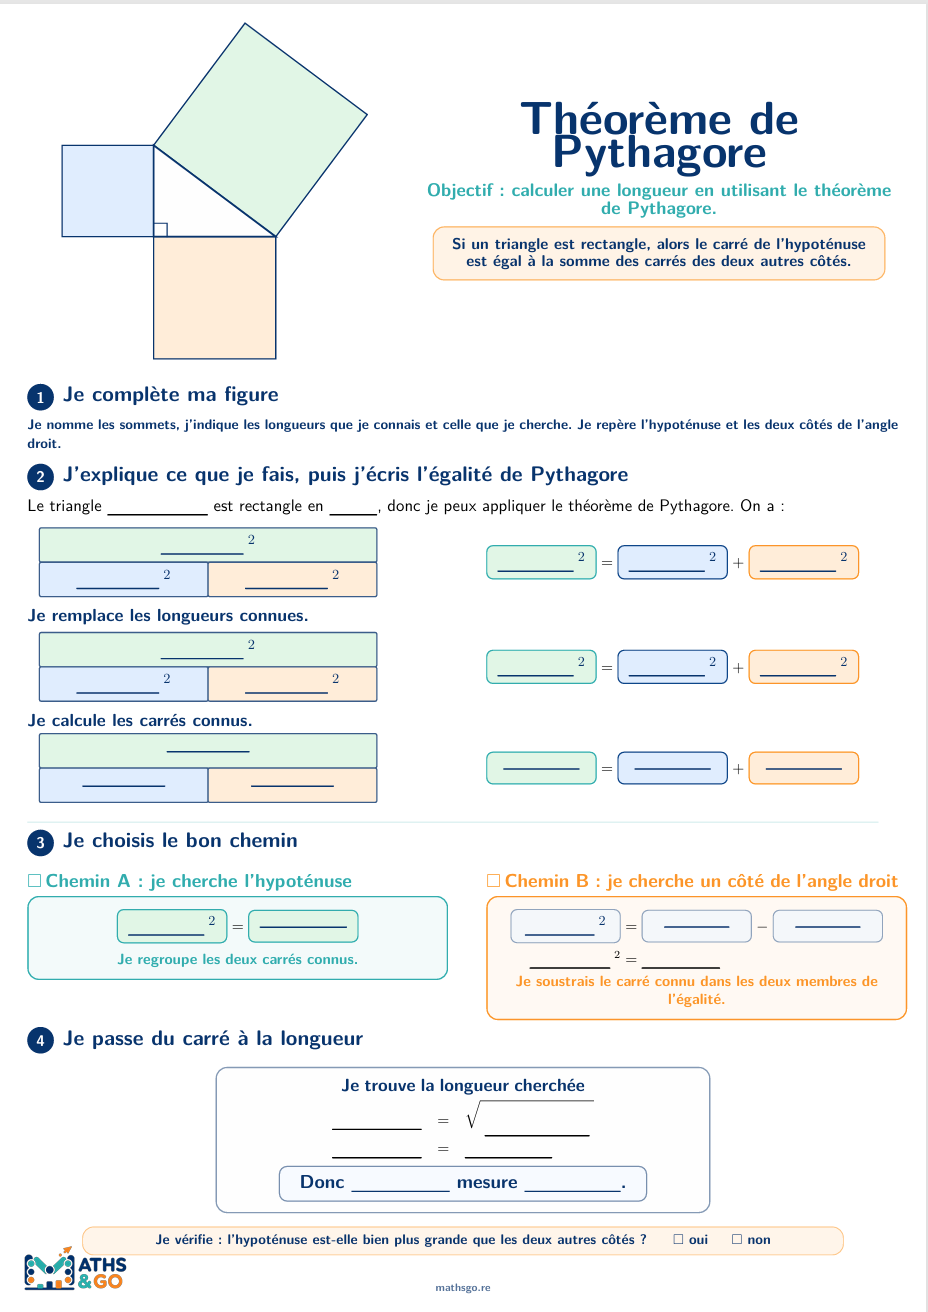
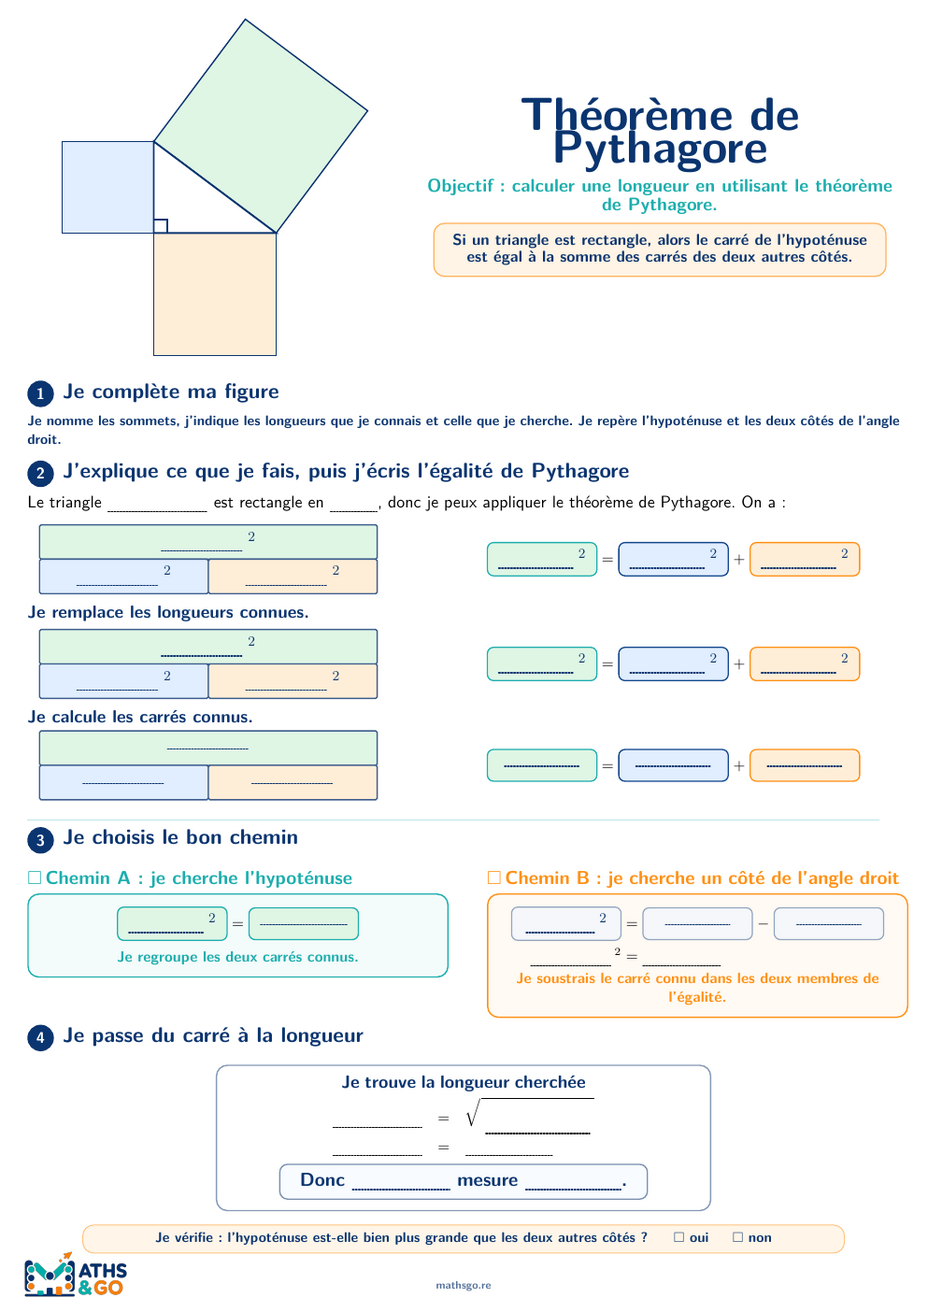
Corrige les gabarits de Pythagore

diff --git a/assets/js/catalogue-refonte-data.js b/assets/js/catalogue-refonte-data.js
@@ -679,14 +679,14 @@ window.MATHSGO_CATALOGUE = {
       "primaryNotion": "pythagore",
       "collections": [],
       "tags": ["schema-barres", "moulin", "pythagore", "gabarit", "imprimable"],
-      "thumbnail": "assets/img/thumbnails/pythagore/gabarit-pythagore.png?v=1",
+      "thumbnail": "assets/img/thumbnails/pythagore/gabarit-pythagore.png?v=2",
       "cardDescription": "Guider pas à pas le calcul d’une longueur avec les carrés colorés, le schéma en barres et une rédaction structurée."
     },
     "outils/gabarit_reciproque_pythagore.pdf": {
       "primaryNotion": "pythagore",
       "collections": [],
       "tags": ["pythagore", "reciproque", "contraposee", "gabarit", "imprimable"],
-      "thumbnail": "assets/img/thumbnails/pythagore/gabarit-reciproque-pythagore.png?v=1",
+      "thumbnail": "assets/img/thumbnails/pythagore/gabarit-reciproque-pythagore.png?v=2",
       "cardDescription": "Comparer séparément le carré du plus grand côté et la somme des deux autres carrés, puis rédiger la conclusion adaptée."
     },
     "outils/fiche_reciproque_thales.pdf": {
@@ -4209,7 +4209,7 @@ window.MATHSGO_CATALOGUE = {
     },
     {
       "id": "outils-gabarit-reciproque-pythagore-pdf",
-      "title": "Gabarit réciproque et contraposé de Pythagore",
+      "title": "Gabarit réciproque et contraposée de Pythagore",
       "description": "Un gabarit à imprimer pour identifier le plus grand côté, effectuer les deux calculs séparément, les comparer et conclure correctement.",
       "path": "outils/gabarit_reciproque_pythagore.pdf",
       "domains": [

diff --git a/outils/_gabarit_reciproque_pythagore.tex b/outils/_gabarit_reciproque_pythagore.tex
@@ -68,9 +68,9 @@
   \filldraw[fill=softGreen,draw=brandNavy,line width=0.85pt]
     (B) -- (C) -- (2.65,1.10) -- (1.55,2.25) -- cycle;
   \filldraw[fill=white,draw=brandNavy,line width=1.15pt] (A) -- (B) -- (C) -- cycle;
-  \node[brandNavy,font=\bfseries\small] at (-0.16,-0.16) {$A$};
-  \node[brandNavy,font=\bfseries\small] at (0.27,1.33) {$B$};
-  \node[brandNavy,font=\bfseries\small] at (1.67,-0.15) {$C$};
+  \node[brandNavy!55,font=\bfseries\small] at (-0.16,-0.16) {$\cdots$};
+  \node[brandNavy!55,font=\bfseries\small] at (0.27,1.33) {$\cdots$};
+  \node[brandNavy!55,font=\bfseries\small] at (1.67,-0.15) {$\cdots$};
   \node[brandTeal,font=\bfseries\Large] at (0.25,0.23) {?};
 \end{tikzpicture}}
 

diff --git a/outils/_pythabarre_recto_verso.tex b/outils/_pythabarre_recto_verso.tex
@@ -29,7 +29,7 @@
 \newcommand{\LogoFile}{../assets/img/mathsgo-logo.png}
 \newcommand{\MathsGoFooter}{%
 \begin{tikzpicture}[remember picture,overlay]
-  \node[anchor=south west,inner sep=0pt] at ([xshift=0.48cm,yshift=0.44cm]current page.south west)
+  \node[anchor=south west,inner sep=0pt] at ([xshift=0.48cm,yshift=0.26cm]current page.south west)
     {\IfFileExists{\LogoFile}{\includegraphics[width=2.45cm]{\LogoFile}}{\tikz[baseline=-0.6ex]{\node[brandNavy,font=\sffamily\bfseries\fontsize{17}{18}\selectfont]{M};}}};
   \node[anchor=south,text=brandNavy!70,font=\sffamily\bfseries\fontsize{7}{7}\selectfont]
     at ([yshift=0.32cm]current page.south) {mathsgo.re};
